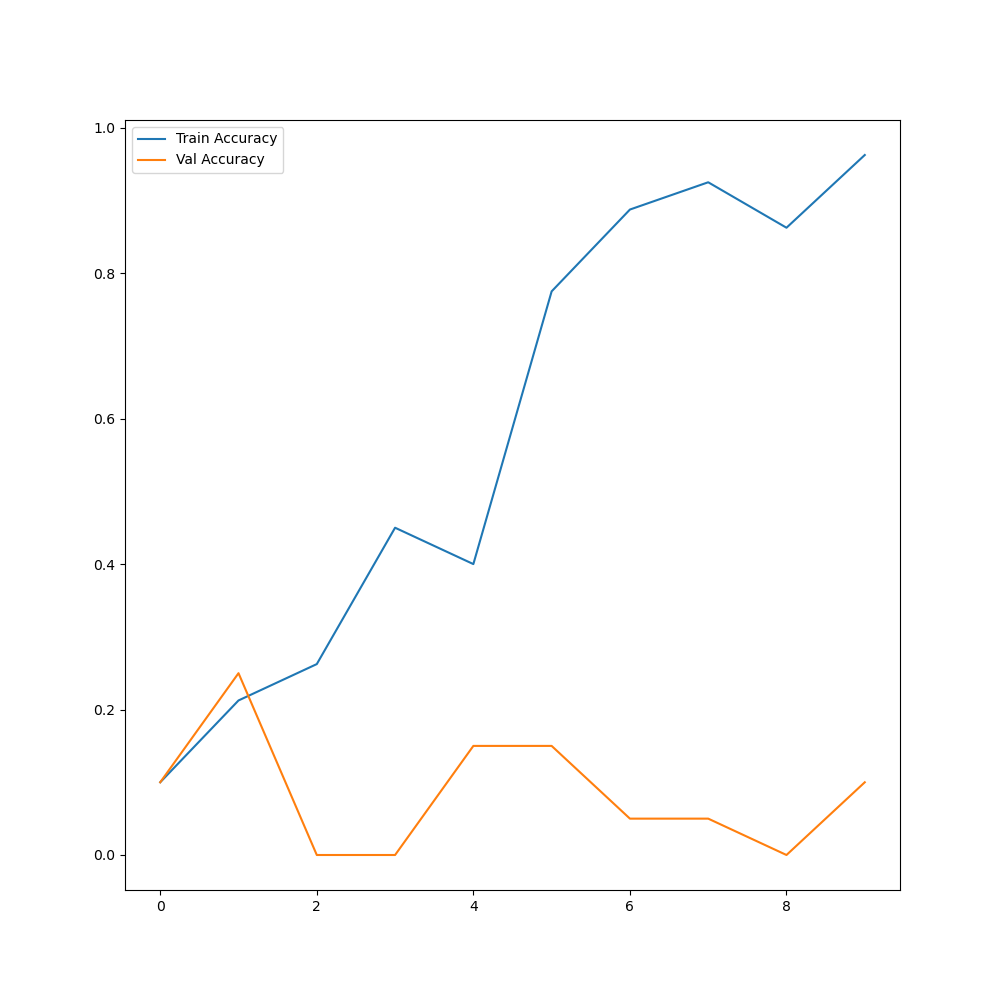
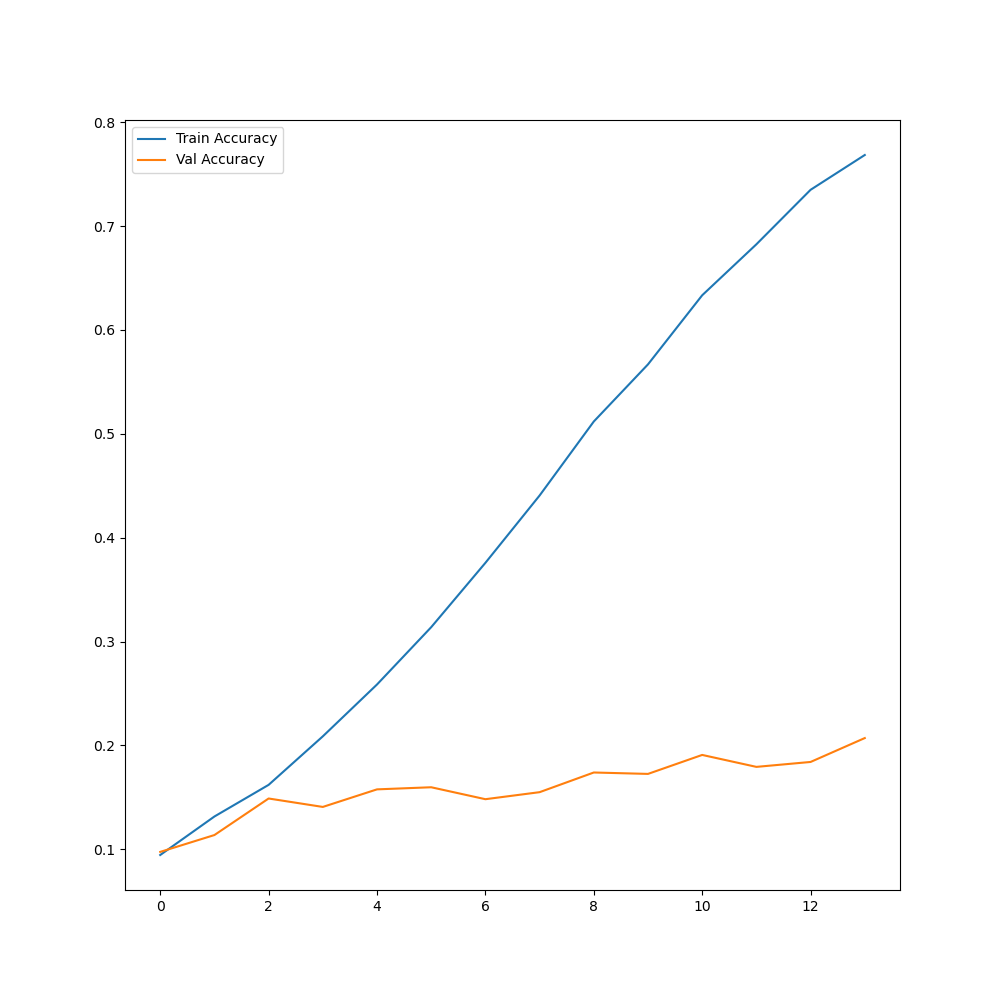
successful train

diff --git a/src/evaluate.py b/src/evaluate.py
@@ -12,43 +12,82 @@ from sklearn.linear_model import LogisticRegression
 from sklearn.model_selection import train_test_split
 from sklearn.metrics import accuracy_score
 
+def eval(encoder, train_df, test_df):
+    #make copy of df
+    train_df_copy = train_df.copy()
+    test_df_copy = test_df.copy()
+    for i in range(len(train_df_copy)):
+        #Encode
+        train_df_copy['text'].iloc[i] = encoder(train_df_copy['text'].iloc[i].unsqueeze(0)).detach().numpy()
+    
+    X_train = np.array(train_df_copy['text'].tolist())
+    X_train = np.squeeze(X_train, axis=1)
+    y_train = np.array(train_df_copy['coarse_label'].tolist())
 
-def eval():
-    csv_file = "../data/trec_test.csv"
-    train_df = pd.read_csv(csv_file)
-    max_len = np.max(train_df["text"].apply(lambda x: len(x.split())))
+    clf = LogisticRegression(random_state=0).fit(X_train, y_train)
+
+    clf.fit(X_train, y_train)
+
+
+    for i in range(len(test_df)):
+        #Encode
+        test_df_copy['text'].iloc[i] = encoder(test_df_copy['text'].iloc[i].unsqueeze(0)).detach().numpy()
+    
+    X_test = np.array(test_df_copy['text'].tolist())
+    X_test = np.squeeze(X_test, axis=1)
+    y_test = np.array(test_df_copy['coarse_label'].tolist())
+
+    train_acc = accuracy_score(y_train, clf.predict(X_train))
+    test_acc = accuracy_score(y_test, clf.predict(X_test))
+    return train_acc, test_acc
+
+def main():
+    csv_file_train = "../data/trec_train.csv"
+    csv_file_test = "../data/trec_test.csv"
+    train_df = pd.read_csv(csv_file_train)
+    test_df = pd.read_csv(csv_file_test)
+    max_len_train = np.max(train_df["text"].apply(lambda x: len(x.split())))
+    max_len_test = np.max(test_df["text"].apply(lambda x: len(x.split())))
     word2idx = json.load(open('../data/word2idx.json', 'r'))
 
     for i in range(len(train_df)):
         #Tokenize
         train_df['text'].iloc[i] = train_df['text'].iloc[i].lower() 
         train_df['text'].iloc[i] = [word2idx[word] if word in word2idx else word2idx["<unk>"] for word in train_df['text'].iloc[i].split()] #Tokenize
-        train_df['text'].iloc[i] = train_df['text'].iloc[i] + [word2idx["<pad>"]] * (max_len - len(train_df['text'].iloc[i]))
+        train_df['text'].iloc[i] = train_df['text'].iloc[i] + [word2idx["<pad>"]] * (max_len_train - len(train_df['text'].iloc[i]))
         train_df['text'].iloc[i] = torch.tensor(train_df['text'].iloc[i])
+
+    for i in range(len(test_df)):
+        #Tokenize
+        test_df['text'].iloc[i] = test_df['text'].iloc[i].lower() 
+        test_df['text'].iloc[i] = [word2idx[word] if word in word2idx else word2idx["<unk>"] for word in test_df['text'].iloc[i].split()]
+        test_df['text'].iloc[i] = test_df['text'].iloc[i] + [word2idx["<pad>"]] * (max_len_test - len(test_df['text'].iloc[i]))
+        test_df['text'].iloc[i] = torch.tensor(test_df['text'].iloc[i])
+
 
     vocab_size = len(word2idx)
     embedding_dim = 128
     output_dim = 2400
     encoder = SentenceEncoder(vocab_size, embedding_dim, output_dim)
-    encoder.load_state_dict(torch.load("output/model_encoder.pt"))
+    def init_weights(m):
+        for name, param in m.named_parameters():
+            torch.nn.init.uniform_(param.data, -0.08, 0.08)
+    encoder.apply(init_weights)
 
-    for i in range(len(train_df)):
-        #Encode
-        train_df['text'].iloc[i] = encoder(train_df['text'].iloc[i].unsqueeze(0)).detach().numpy()
-    
+    random_train_acc, random_test_acc = eval(encoder, train_df, test_df)
 
-    X = np.array(train_df['text'].tolist())
-    X = np.squeeze(X, axis=1)
-    y = np.array(train_df['coarse_label'].tolist())
+    #load encoder from '../models/encoder.pt'
+    encoder.load_state_dict(torch.load('output/model_encoder.pt', map_location=torch.device('cpu')))
+    train_acc, test_acc = eval(encoder, train_df, test_df)
 
-    X_train, X_test, y_train, y_test = train_test_split(X, y, test_size=0.2)
-
-    clf = LogisticRegression(random_state=0).fit(X_train, y_train)
-
-    y_pred = clf.predict(X_test)
-
-    print(accuracy_score(y_test, y_pred))
+    #plot a table in output folder with the results
+    fig, ax = plt.subplots()
+    ax.axis('tight')
+    ax.axis('off')
+    ax.table(cellText=[[random_train_acc, random_test_acc], [train_acc, test_acc]], rowLabels=['Random', 'Trained'], colLabels=['Train accuracy', 'Test accuracy'], loc='center')
+    fig.tight_layout()
+    plt.savefig('output/table.png')
 
 
 if __name__ == "__main__":
-    eval()
+    main()

diff --git a/src/trainer.py b/src/trainer.py
@@ -10,24 +10,27 @@ import matplotlib.pyplot as plt
 
 
 def train():
+    device = torch.device('cuda' if torch.cuda.is_available() else 'cpu')
+    print(device)
     embedding_dim = 128
     output_dim = 2400
     hidden_dim = 2400
     batch_size = 2
-    epochs = 10
+    epochs = 50
     patience = 10
     history_len = 10
     negative_len = 10
     print("Starting")
     dataset = NLPDataset()
     print(dataset.get_len())
-    cpc_dataset = CPCDataset(dataset, 100)
+    cpc_dataset = CPCDataset(dataset)
     print("Dataset loaded")
     vocab_size = len(json.load(open('../data/word2idx.json', 'r')))
     
-    model = CpcModel(vocab_size, embedding_dim, output_dim, hidden_dim)
+    model = CpcModel(device, vocab_size, embedding_dim, output_dim, hidden_dim)
+    model = model.to(device)
 
-    optimizer = torch.optim.Adam(model.parameters(), lr=10e-5)
+    optimizer = torch.optim.Adam(model.parameters(), lr=1e-4, weight_decay=1e-5)
 
     train_val_split = int(len(cpc_dataset) * 0.8)
     train_dataset, val_dataset = torch.utils.data.random_split(cpc_dataset, [train_val_split, len(cpc_dataset) - train_val_split])
@@ -51,7 +54,7 @@ def train():
             loss = loss.mean()
             loss.backward()
             optimizer.step()
-            loss_batch = np.append(loss_batch, [loss.detach().numpy()])
+            loss_batch = np.append(loss_batch, [loss.to('cpu').detach().numpy()])
             acc_batch = np.append(acc_batch, [train_accuracy])
 
         with torch.no_grad():
@@ -60,27 +63,37 @@ def train():
             for batch in val_data_loader:
                 val_loss, val_accuracy = model(batch)
                 val_loss = val_loss.mean()
-                val_loss_batch = np.append(val_loss_batch, [val_loss.detach().numpy()])
+                val_loss_batch = np.append(val_loss_batch, [val_loss.to('cpu').detach().numpy()])
                 val_acc_batch = np.append(val_acc_batch, [val_accuracy])
-   
-        if epoch == 0:
-            patience_counter = 0
-        elif val_loss_batch.mean() > val_loss_hist[-1]:
-            patience_counter += 1
-            if patience_counter == patience:
-                print("Early stopping")
-                break   
-        else:
-            patience_counter = 0
         
-        print("Epoch: {} Train Loss: {} Val Loss: {}".format(epoch, loss_batch.mean(), val_loss_batch.mean()))
-        print("Epoch: {} Train Accuracy: {} Val Accuracy: {}".format(epoch, acc_batch.mean(), val_acc_batch.mean()))
         train_loss_hist = np.append(train_loss_hist, loss_batch.mean())
         val_loss_hist = np.append(val_loss_hist, val_loss_batch.mean())
         train_accuracy_hist = np.append(train_accuracy_hist, acc_batch.mean())
         val_accuracy_hist = np.append(val_accuracy_hist, val_acc_batch.mean())
+   
+        if epoch == 0:
+            patience_counter = 0
+            best_model = model
+            best_val_loss = val_loss_hist[-1]
+            best_val_accuracy = val_accuracy_hist[-1]
 
-    model.save("output/model")
+        elif val_loss_batch.mean() > best_val_loss:
+            patience_counter += 1
+            if patience_counter == patience:
+                break   
+        
+        else:
+            patience_counter = 0
+            best_model = model
+            best_val_loss = val_loss_hist[-1]
+            best_val_accuracy = val_accuracy_hist[-1]
+
+        print("Epoch: {} Train Loss: {} Val Loss: {}".format(epoch, loss_batch.mean(), val_loss_batch.mean()))
+        print("Epoch: {} Train Accuracy: {} Val Accuracy: {}".format(epoch, acc_batch.mean(), val_acc_batch.mean()))
+        
+
+    print("Saving model with val loss: {} and val accuracy: {}".format(best_val_loss, best_val_accuracy))
+    best_model.save("output/model")
 
     plt.figure(figsize=(10,10))
     plt.plot(train_loss_hist, label="Train Loss")

diff --git a/src/dataset.py b/src/dataset.py
@@ -55,7 +55,7 @@ class NLPDataset():
             reader = csv.reader(file)
             row_count = sum(1 for row in reader)
         return row_count
-               
+            
     def get_item(self, idx):
         with open(self.csv_file, 'r') as file:
             line = linecache.getline(self.csv_file, idx)
@@ -70,21 +70,23 @@ class NLPDataset():
 class CPCDataset(Dataset):
     """ This dataset contains the triplets (history, positive, negative) indexes for contrastive learning
     """
-    def __init__(self, dataset, learning_sample_len, history_samples=10, prediction_len=3, negative_samples=10):
+    def __init__(self, dataset, history_samples=10, prediction_len=3, negative_samples=10):
         self.dataset = dataset
-        self.learning_sample_len = learning_sample_len
         len_dataset = self.dataset.get_len() #Len of the dataset containing the sentences
+        len_learning_sample = len_dataset - history_samples - prediction_len #Len of the contrastive dataset
         self.history_samples = history_samples
         self.prediction_len = prediction_len
         self.contrastive_dataset = pd.DataFrame(columns=['history','positive','negative', 'step'])
-        for _ in range(self.learning_sample_len):
-            t = random.randint(2, len_dataset - history_samples - prediction_len)
+        for i in range(2, len_learning_sample):
+            if (i % 1000 == 0):
+                print(str(i)+"/"+str(len_learning_sample))
             prediction_step = random.randint(1, prediction_len)
-            history_idx = [t+j for j in range(history_samples)]
-            positive_idx = t+history_samples+prediction_step-1
+            history_idx = [i+j for j in range(history_samples)]
+            positive_idx = i+history_samples+prediction_step-1
             possible_negs = list(set(range(2, len_dataset)) - set(history_idx) - set([positive_idx]))
             negative_idx = random.sample(possible_negs, negative_samples)
             self.contrastive_dataset = pd.concat([self.contrastive_dataset, pd.DataFrame([[history_idx, positive_idx, negative_idx, prediction_step]], columns=['history','positive','negative', 'step'])])
+        self.contrastive_dataset.to_json('../data/contrastive_dataset.json', orient='records')
 
     def __len__(self):
         return len(self.contrastive_dataset)
@@ -99,7 +101,7 @@ class CPCDataset(Dataset):
 
 if __name__ == "__main__":
     #download_dataset("trec")
-    #download_dataset("bookcorpus", subset_size = 0.1, test=False)
+    download_dataset("bookcorpus", subset_size = 0.0001, test=False)
     #tokenizeDataset("../data/bookcorpus_train.csv")
 
     """

diff --git a/src/models.py b/src/models.py
@@ -28,19 +28,21 @@ class AutoregressiveGRU(nn.Module):
         return x
 
 class CpcModel(nn.Module):
-    def __init__(self, vocab_size, embedding_dim, output_dim, hidden_dim):
+    def __init__(self, device, vocab_size, embedding_dim, output_dim, hidden_dim):
         super(CpcModel, self).__init__()
+        self.device = device
         self.encoder = SentenceEncoder(vocab_size, embedding_dim, output_dim)
         self.ar = AutoregressiveGRU(output_dim, hidden_dim)
-        #create a linear layer for each step
         self.W = nn.Linear(hidden_dim+1, hidden_dim) 
+
     
     def forward(self, x):
         #x is a list containing x_hist, x_pos, x_neg, step which are all tensors
-        x_hist = x[0] #64 10 132
-        x_pos = x[1].unsqueeze(1) #64 1 132
-        x_neg = x[2] #64 10 132 #concatenate 
-        step = x[3]
+        x_hist = x[0].to(self.device) #64 10 132
+        x_pos = x[1].unsqueeze(1).to(self.device) #64 1 132
+        x_neg = x[2].to(self.device) #64 10 132 #concatenate 
+        step = x[3].to(self.device)
+
 
         #print(x_hist.shape) #64 10 132
         #print(x_pos.shape) #64 1 132
